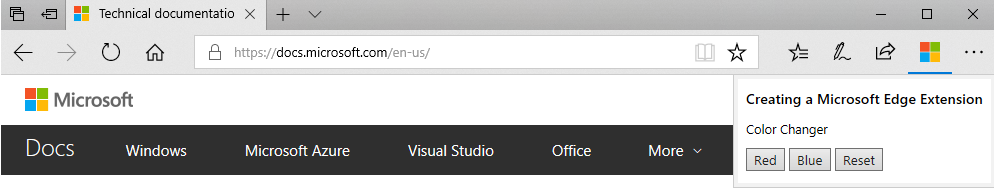
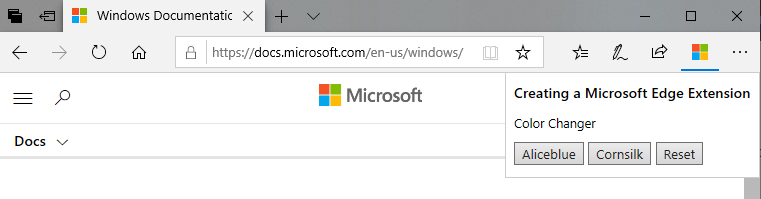
Use a more generic element for updating CSS. Fixes #158

diff --git a/microsoft-edge/extensions/guides/creating-an-extension.md b/microsoft-edge/extensions/guides/creating-an-extension.md
@@ -1,9 +1,9 @@
 ---
-description: Learn how to create a Microsoft Edge extension with some helpful tutorials and videos!
+description: Learn how to create a Microsoft Edge extension
 title: Extensions - Creating an extension
 author: erikadoyle
 ms.author: edoyle
-ms.date: 05/22/2018
+ms.date: 11/12/2018
 ms.topic: article
 ms.prod: microsoft-edge
 keywords: edge, web development, html, css, javascript, developer
@@ -13,9 +13,9 @@ keywords: edge, web development, html, css, javascript, developer
 
 In this guide, you will learn to create an extension for Microsoft Edge.  This example extension will allow you to manipulate specific CSS for [docs.microsoft.com](https://docs.microsoft.com) pages -- walking you through creation of a manifest file, the user interface, and background and content scripts.
 
-![Docs.microsoft.com header changed to red](../media/color-changer_header.png)
+![Docs.microsoft.com body changed to blue](../media/color-changer_header.png)
 
-This tutorial assumes you have basic understanding of what browser extensions are and how they work. Unfamiliar with the building blocks for extensions? Check out the walkthrough, [Anatomy of an extension](https://developer.mozilla.org/Add-ons/WebExtensions/Anatomy_of_a_WebExtension), first.
+This tutorial assumes you have basic understanding of what browser extensions are and how they work. Unfamiliar with the building blocks for extensions? Check out [*Anatomy of an extension*](https://developer.mozilla.org/Add-ons/WebExtensions/Anatomy_of_a_WebExtension).
 
 The code for the full sample is here on [GitHub](https://github.com/MicrosoftEdge/MicrosoftEdge-Extensions-Demos/tree/master/color_changer).
 
@@ -36,7 +36,7 @@ Inside "manifest.json", include the following code.
   "name": "Color Changer",
   "author": "Microsoft Edge Extension Developer",
   "version": "1.0",
-  "description": "Change the color of the header on docs.microsoft.com",
+  "description": "Change the color of the body on docs.microsoft.com",
   "permissions": [
     "*://docs.microsoft.com/*",
     "tabs"
@@ -82,15 +82,15 @@ To do this, create a file called "popup.html" in the root of your "color-changer
   <body>
     <h1>Creating a Microsoft Edge Extension</h1>
     <p>Color Changer</p>
-    <button id="changeToRed">Red</button>
-    <button id="changeToBlue">Blue</button>
-    <button id="reset">Reset</button>
+    <input id="aliceblue" type="button" value="Aliceblue" />
+    <input id="cornsilk" type="button" value="Cornsilk" />
+    <input id="reset" type="button" value="Reset" />
     <script src="js/popup.js"></script>
   </body>
 </html>
 ```
 
-In "popup.html", we create a title, a paragraph, and three buttons (Red, Blue, and Reset).
+In "popup.html", we create a title, a paragraph, and three buttons (Aliceblue, Cornsilk, and Reset).
 
 Now create a folder called "css" and inside create a file called "styles.css".  Add the styles below.
 
@@ -118,28 +118,29 @@ Next, we need to create the JavaScript file that interacts with the popup. Creat
 
 ```JavaScript
 // get the buttons by id
-let red = document.getElementById('changeToRed');
-let blue = document.getElementById('changeToBlue');
+let aliceblue = document.getElementById('aliceblue');
+let cornsilk = document.getElementById('cornsilk');
 let reset = document.getElementById('reset');
 
 // use tabs.insertCSS to change header color on button click
-// red
-red.onclick = function() {
-  browser.tabs.insertCSS({code: ".c-uhfh .brand-neutral { background: red !important; }"});
+
+// aliceblue
+aliceblue.onclick = () => {
+  browser.tabs.insertCSS({code: "body { background: aliceblue !important; }"});
 };
 
-// blue
-blue.onclick = function() {
-  browser.tabs.insertCSS({code: ".c-uhfh .brand-neutral { background: blue !important; }"});
+// cornsilk
+cornsilk.onclick = () => {
+  browser.tabs.insertCSS({code: "body { background: cornsilk !important; }"});
 };
 
 // back to original
-reset.onclick = function() {
-  browser.tabs.insertCSS({code: ".c-uhfh .brand-neutral { background: #2f2f2f !important; }"});
+reset.onclick = () => {
+  browser.tabs.insertCSS({code: "body { background: none !important; }"});
 };
 ```
 
-In "popup.js", the [tabs](https://developer.mozilla.org/Add-ons/WebExtensions/API/tabs) API allows us to interact with the browser's tabs. Using the [tabs.insertCSS()](https://developer.mozilla.org/Add-ons/WebExtensions/API/tabs/insertCSS) method, we inject the specified CSS into the page which changes the header on [docs.microsoft.com](https://docs.microsoft.com) to a different color when the specified button is clicked.
+In "popup.js", the [tabs](https://developer.mozilla.org/Add-ons/WebExtensions/API/tabs) API allows us to interact with the browser's tabs and inject script and styles into their page content. Using the [`tabs.insertCSS()`](https://developer.mozilla.org/Add-ons/WebExtensions/API/tabs/insertCSS) method, we inject the specified CSS into the page which changes the header on [docs.microsoft.com](https://docs.microsoft.com) to a different color when the specified button is clicked.
 
 Now that we have the basic popup functionality, let's add icons to the extension. 
 
@@ -171,9 +172,11 @@ You'll noticed icons named "inactive##.png" included in the images folder -- we 
 
 Now that we've added the user interface and created icons, let's test the extension. Walk through the steps for [Adding an extension](./adding-and-removing-extensions.md#adding-an-extension) to Microsoft Edge. Then, come back to this guide.
 
-After you've added your extension, navigate to any [docs.microsoft.com](https://docs.microsoft.com/) page. You should see the following popup after clicking on the browser action. The color of the [docs.microsoft.com](https://docs.microsoft.com/) header should also change color.
+After you've added your extension, navigate to any [docs.microsoft.com](https://docs.microsoft.com/) page. You should see the following popup after clicking on the browser action. The color of the [docs.microsoft.com](https://docs.microsoft.com/) body should also change color.
 
-![Docs.microsoft.com header changed to red](../media/color-changer_header_red.png)
+![Docs.microsoft.com header changed to Aliceblue](../media/color-changer_header_aliceblue.png)
+
+![Docs.microsoft.com header changed to Cornsilk](../media/color-changer_header_cornsilk.png)
 
 If you encounter any errors or functionality that's not working, check out the [Debugging extensions](https://docs.microsoft.com/microsoft-edge/extensions/guides/debugging-extensions) guide or download the full sample here on [GitHub](https://github.com/MicrosoftEdge/MicrosoftEdge-Extensions-Demos/tree/master/color_changer).
 
